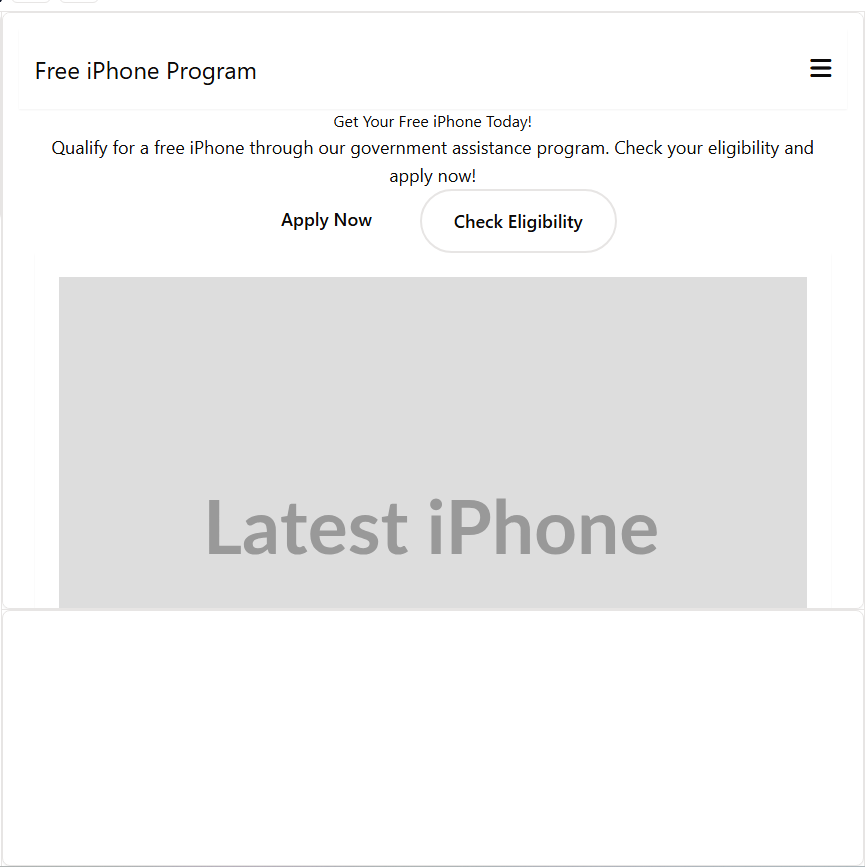
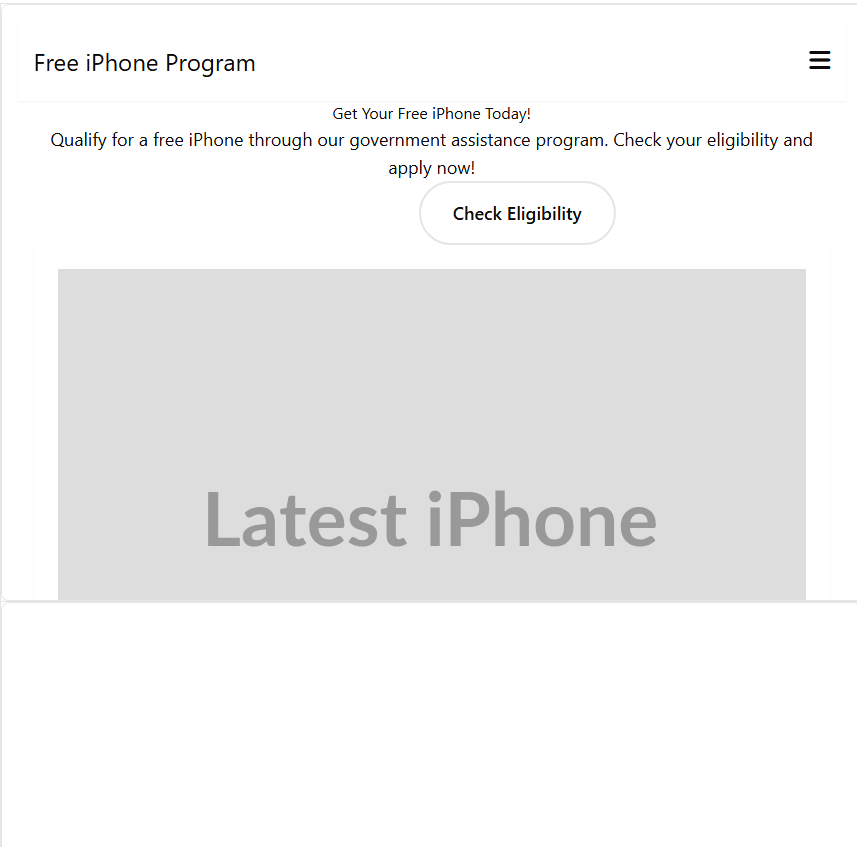
Agent query: Please check if you can see the simplified layout with only sidebar and preview. Try hovering over elements and clicking them to edit.
Improve preview functionality by making it editable and updating the editor layout.

Screenshot: https://storage.googleapis.com/screenshot-production-us-central1/adf5d331-183d-49f7-a6eb-45b8566e7134/9edeca9d-0b86-422f-9820-38b263cb3f82.jpg

diff --git a/client/src/pages/Editor.tsx b/client/src/pages/Editor.tsx
@@ -1,97 +1,26 @@
-import { useEffect, useState } from "react";
+import { useState } from "react";
 import { ResizableHandle, ResizablePanel, ResizablePanelGroup } from "@/components/ui/resizable";
-import { VisualEditor } from "@/components/editor/VisualEditor";
-import { CodeEditor } from "@/components/editor/CodeEditor";
 import { PropertiesPanel } from "@/components/editor/PropertiesPanel";
 import { Preview } from "@/components/editor/Preview";
-import { Toolbar } from "@/components/editor/Toolbar";
 import { ElementPalette } from "@/components/editor/ElementPalette";
-import { useToast } from "@/hooks/use-toast";
 import { useEditorStore } from "@/lib/editor-store";
 
 export default function Editor() {
-  const { toast } = useToast();
-  const { html, setHtml } = useEditorStore();
-  const [previewMode, setPreviewMode] = useState<"desktop" | "tablet" | "mobile">("desktop");
-
-  // Handle file import
-  const handleFileImport = async (file: File) => {
-    try {
-      const content = await file.text();
-      setHtml(content);
-      toast({
-        title: "Success",
-        description: "File imported successfully",
-      });
-    } catch (error) {
-      toast({
-        title: "Error",
-        description: "Failed to import file",
-        variant: "destructive",
-      });
-    }
-  };
-
-  // Handle file export
-  const handleFileExport = () => {
-    try {
-      const blob = new Blob([html], { type: "text/html" });
-      const url = URL.createObjectURL(blob);
-      const a = document.createElement("a");
-      a.href = url;
-      a.download = "index.html";
-      a.click();
-      URL.revokeObjectURL(url);
-      toast({
-        title: "Success",
-        description: "File exported successfully",
-      });
-    } catch (error) {
-      toast({
-        title: "Error",
-        description: "Failed to export file",
-        variant: "destructive",
-      });
-    }
-  };
+  const [previewMode] = useState<"desktop" | "tablet" | "mobile">("desktop");
 
   return (
-    <div className="h-screen flex flex-col">
-      <Toolbar 
-        onFileImport={handleFileImport}
-        onFileExport={handleFileExport}
-        previewMode={previewMode}
-        onPreviewModeChange={setPreviewMode}
-      />
-      
+    <div className="h-screen flex">
       <ResizablePanelGroup direction="horizontal" className="flex-1">
-        <ResizablePanel defaultSize={15} minSize={10}>
-          <ElementPalette />
+        <ResizablePanel defaultSize={25} minSize={20}>
+          <div className="h-full flex flex-col">
+            <ElementPalette />
+            <div className="flex-1">
+              <PropertiesPanel />
+            </div>
+          </div>
         </ResizablePanel>
-
         <ResizableHandle />
-
-        <ResizablePanel defaultSize={45}>
-          <ResizablePanelGroup direction="vertical">
-            <ResizablePanel defaultSize={70}>
-              <VisualEditor />
-            </ResizablePanel>
-            <ResizableHandle />
-            <ResizablePanel defaultSize={30}>
-              <CodeEditor />
-            </ResizablePanel>
-          </ResizablePanelGroup>
-        </ResizablePanel>
-        
-        <ResizableHandle />
-        
-        <ResizablePanel defaultSize={20}>
-          <PropertiesPanel />
-        </ResizablePanel>
-        
-        <ResizableHandle />
-        
-        <ResizablePanel defaultSize={20}>
+        <ResizablePanel defaultSize={75}>
           <Preview mode={previewMode} />
         </ResizablePanel>
       </ResizablePanelGroup>

diff --git a/client/src/components/editor/Preview.tsx b/client/src/components/editor/Preview.tsx
@@ -1,3 +1,4 @@
+import { useRef } from "react";
 import { Card } from "@/components/ui/card";
 import { useEditorStore } from "@/lib/editor-store";
 
@@ -12,7 +13,26 @@ const viewportSizes = {
 };
 
 export function Preview({ mode }: PreviewProps) {
-  const { html } = useEditorStore();
+  const { html, setHtml, setSelectedElement } = useEditorStore();
+  const previewRef = useRef<HTMLDivElement>(null);
+
+  const handleElementClick = (e: React.MouseEvent) => {
+    e.preventDefault();
+    const target = e.target as HTMLElement;
+    if (target !== previewRef.current) {
+      setSelectedElement(target);
+      target.contentEditable = "true";
+      target.focus();
+    }
+  };
+
+  const handleBlur = (e: React.FocusEvent) => {
+    const target = e.target as HTMLElement;
+    target.contentEditable = "false";
+    if (previewRef.current) {
+      setHtml(previewRef.current.innerHTML);
+    }
+  };
 
   return (
     <Card className="h-full overflow-auto flex items-center justify-center p-4">
@@ -25,12 +45,29 @@ export function Preview({ mode }: PreviewProps) {
         }}
         className="bg-white shadow-lg overflow-auto transition-all duration-300"
       >
-        <iframe
-          srcDoc={html}
-          className="w-full h-full border-0"
-          title="Preview"
-          key={html} // Force iframe to reload when html changes
+        <div
+          ref={previewRef}
+          className="min-h-full w-full"
+          onClick={handleElementClick}
+          onBlur={handleBlur}
+          dangerouslySetInnerHTML={{ __html: html }}
+          style={{
+            cursor: 'pointer'
+          }}
         />
+        <style>{`
+          [data-preview] * {
+            outline: 1px solid transparent;
+            transition: outline 0.2s ease;
+          }
+          [data-preview] *:hover {
+            outline: 2px solid #3b82f6;
+          }
+          [data-preview] *:focus {
+            outline: 2px solid #2563eb;
+            outline-offset: 2px;
+          }
+        `}</style>
       </div>
     </Card>
   );
